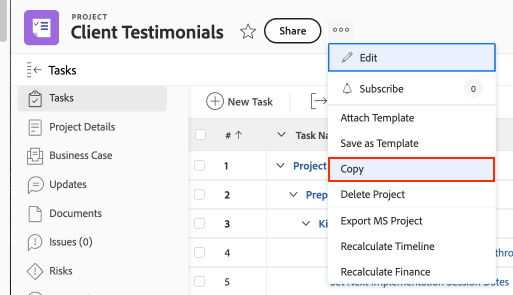
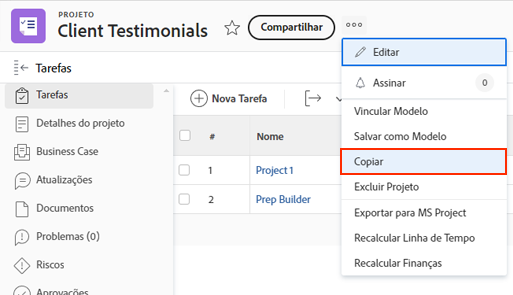
Updated by task 'AUTO_HANDOFF_1728920017293'  Changes for core/source commit https://git.corp.adobe.com/AdobeDocs/workfront-learn.en/commit/864198f778343634d28b304a0154c7041468faec

diff --git a/help/manage-work/manage-projects/copy-an-existing-project.md b/help/manage-work/manage-projects/copy-an-existing-project.md
@@ -12,15 +12,15 @@ recommendations: noDisplay,noCatalog
 jira: KT-10155
 exl-id: 90a87fef-70e9-42fc-ac55-415980ef32c7
 source-git-commit: 434069d95777eef7739917d8761c03a8e64b8433
-workflow-type: tm+mt
+workflow-type: ht
 source-wordcount: '155'
-ht-degree: 89%
+ht-degree: 100%
 
 ---
 
 # Copiar um projeto existente
 
-Às vezes, em vez de usar um modelo para criar um projeto, você só precisa copiar um projeto para outro uso único. Para fazer isso, é necessário ter uma licença Standard, com acesso para Editar e Criar aos projetos.
+Às vezes, em vez de usar um modelo para criar um projeto, você só precisa copiar um projeto para outro uso único. Para isso, você precisa de uma licença padrão com acesso para “Editar” e “Criar” projetos.
 
 Navegue até o projeto que deseja copiar e clique no menu de três pontos ao lado do nome do projeto. Em seguida, selecione “Copiar”.
 

diff --git a/help/manage-work/create-and-manage-project-templates/create-a-project-directly-from-a-template.md b/help/manage-work/create-and-manage-project-templates/create-a-project-directly-from-a-template.md
@@ -12,7 +12,7 @@ recommendations: noDisplay,noCatalog
 jira: KT-10156
 exl-id: 1f44eb26-98bf-4723-b162-27a4f8cb8177
 source-git-commit: 434069d95777eef7739917d8761c03a8e64b8433
-workflow-type: tm+mt
+workflow-type: ht
 source-wordcount: '197'
 ht-degree: 100%
 

diff --git a/help/manage-work/create-and-manage-project-templates/share-a-project-template.md b/help/manage-work/create-and-manage-project-templates/share-a-project-template.md
@@ -13,9 +13,9 @@ jira: KT-8951
 exl-id: 9179fbc8-1000-4215-b2c3-de617c7f1d80
 doc-type: video
 source-git-commit: 434069d95777eef7739917d8761c03a8e64b8433
-workflow-type: tm+mt
+workflow-type: ht
 source-wordcount: '77'
-ht-degree: 79%
+ht-degree: 100%
 
 ---
 

diff --git a/help/manage-work/create-and-manage-project-templates/deactivate-a-project-template.md b/help/manage-work/create-and-manage-project-templates/deactivate-a-project-template.md
@@ -14,7 +14,7 @@ jira: KT-14749
 doc-type: video
 exl-id: ad9b9e1e-3d8c-4a0f-8f73-e204047485a6
 source-git-commit: 434069d95777eef7739917d8761c03a8e64b8433
-workflow-type: tm+mt
+workflow-type: ht
 source-wordcount: '125'
 ht-degree: 100%
 

diff --git a/help/manage-work/create-and-manage-project-templates/create-a-project-template.md b/help/manage-work/create-and-manage-project-templates/create-a-project-template.md
@@ -14,7 +14,7 @@ jira: KT-8950
 exl-id: 1f706148-c001-42a8-a675-48e91d445f0b
 doc-type: video
 source-git-commit: 434069d95777eef7739917d8761c03a8e64b8433
-workflow-type: tm+mt
+workflow-type: ht
 source-wordcount: '377'
 ht-degree: 100%
 

diff --git a/help/manage-work/create-and-manage-project-templates/edit-the-project-team-in-a-project-template.md b/help/manage-work/create-and-manage-project-templates/edit-the-project-team-in-a-project-template.md
@@ -14,7 +14,7 @@ jira: KT-14755
 doc-type: video
 exl-id: 9a92a0a5-5ea3-428d-a81a-2d217e6e3d59
 source-git-commit: 434069d95777eef7739917d8761c03a8e64b8433
-workflow-type: tm+mt
+workflow-type: ht
 source-wordcount: '84'
 ht-degree: 100%
 
